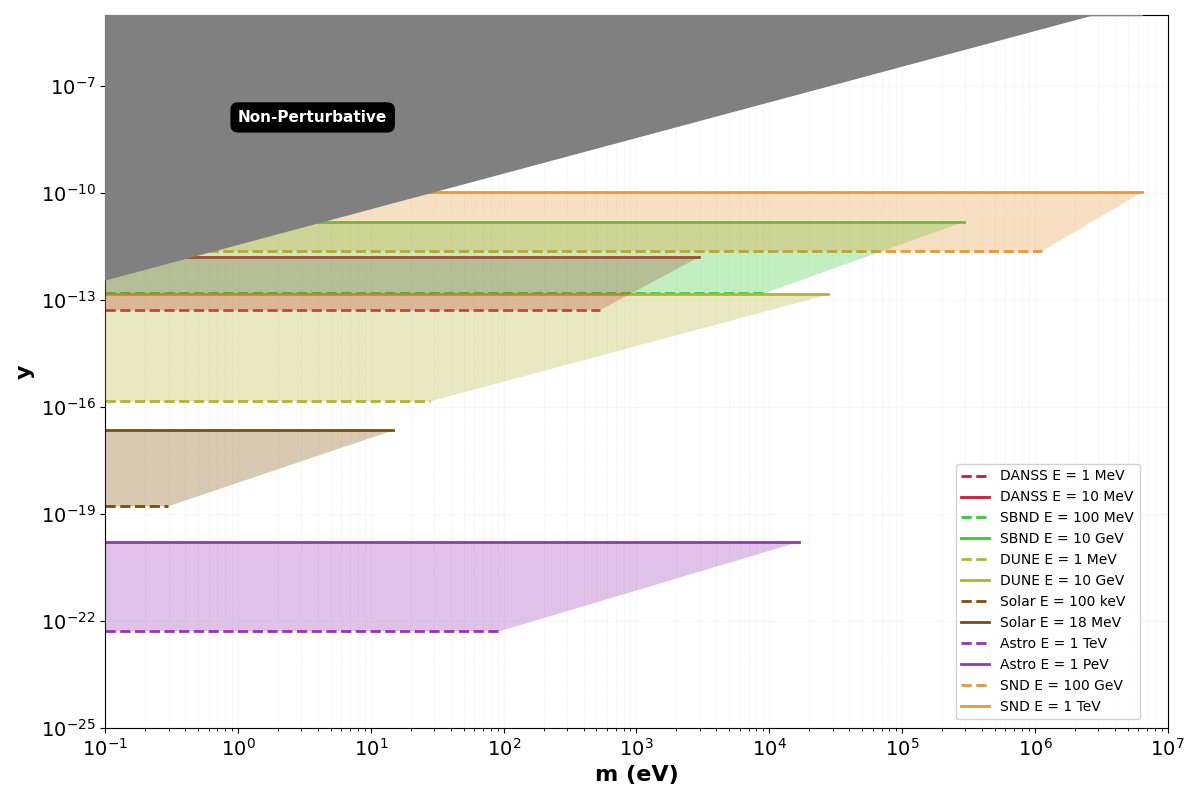
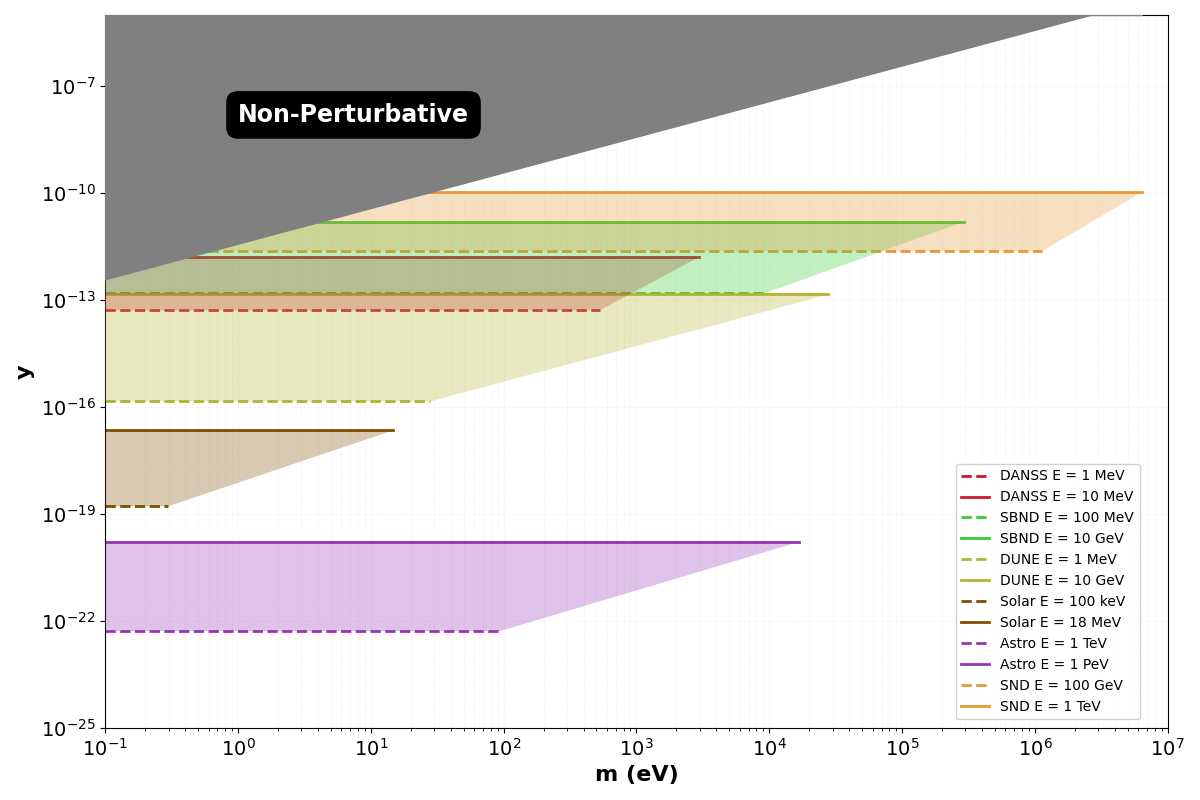
ED plots added

Changed region(s): [[0.185, 0.0938, 0.4008, 0.1875]]

diff --git a/python-codes/mathematica_plot.py b/python-codes/mathematica_plot.py
@@ -281,7 +281,7 @@ ax.fill_between(x_pert, y_pert, 1e-5, color='gray', alpha=1.0, zorder=10)
 
 # Add "Non-Perturbative" label
 ax.text(1, 1e-8, 'Non-Perturbative', 
-        fontsize=11, fontweight='bold', color='white',
+        fontsize=17, fontweight='bold', color='white',
         bbox=dict(boxstyle='round,pad=0.5', facecolor='black', edgecolor='none'),
         zorder=11)
 
